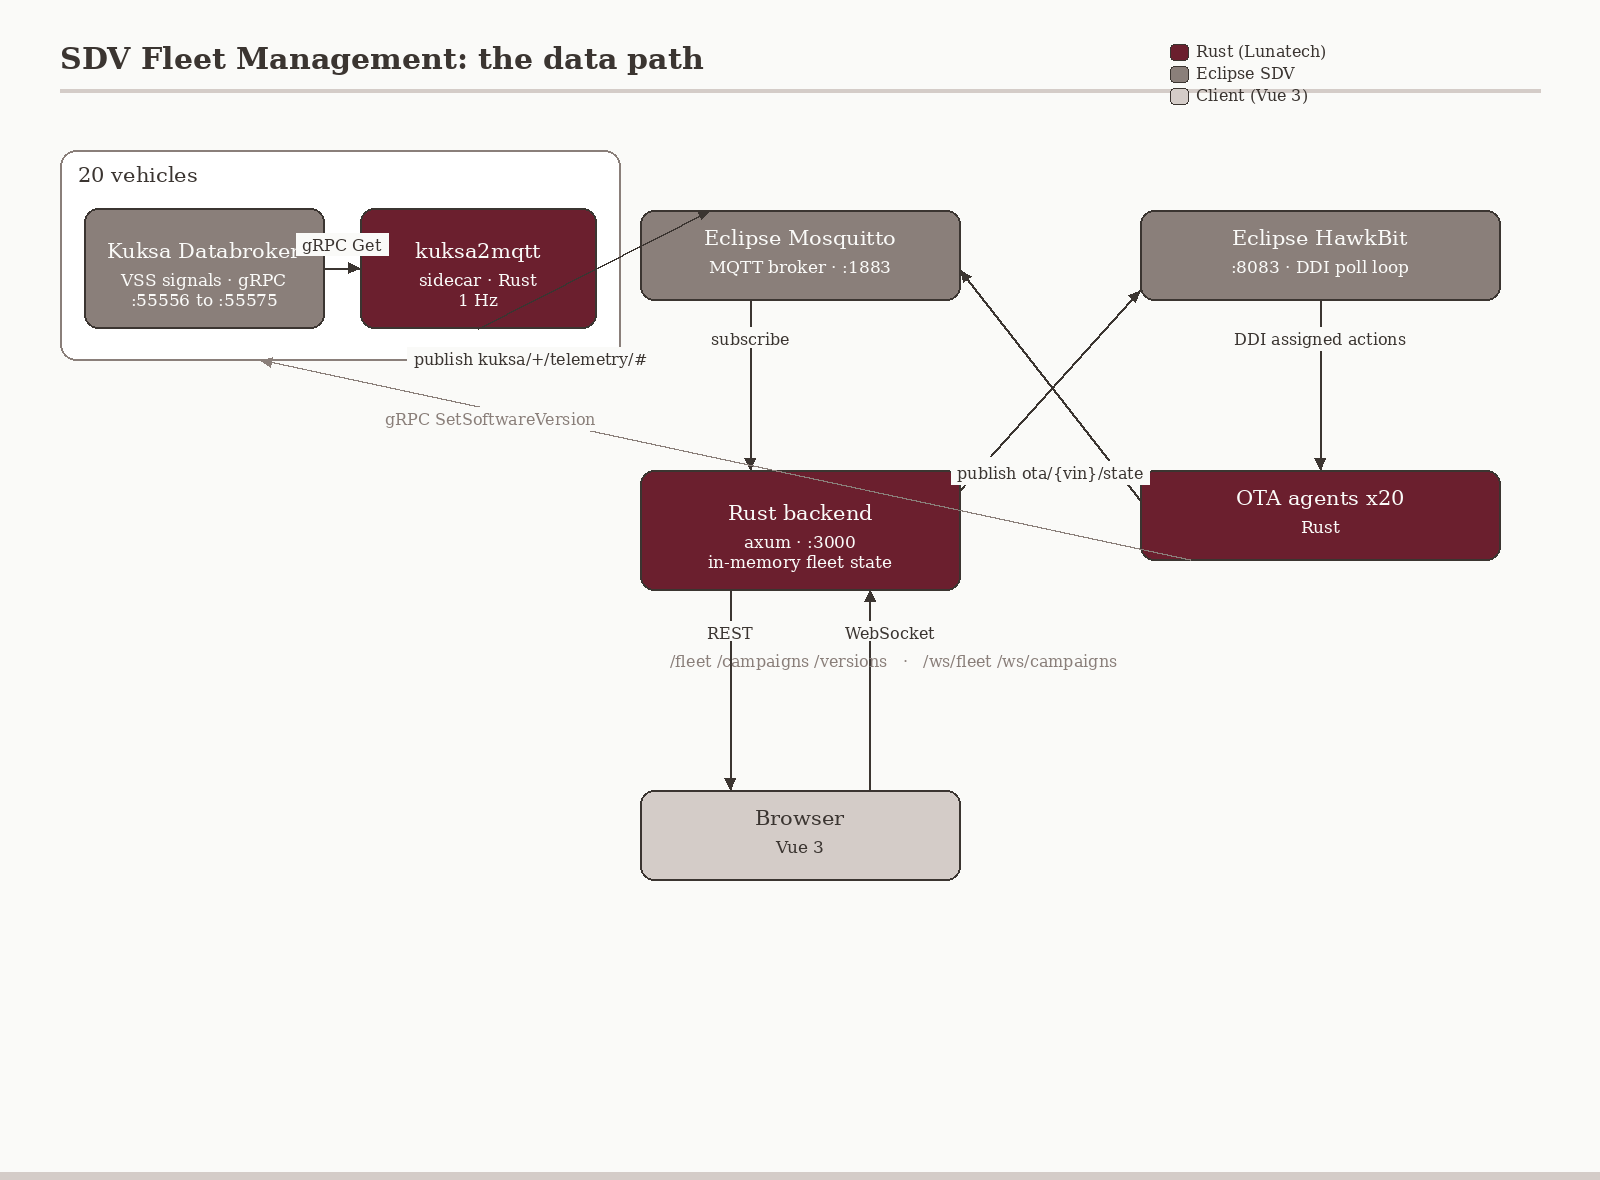
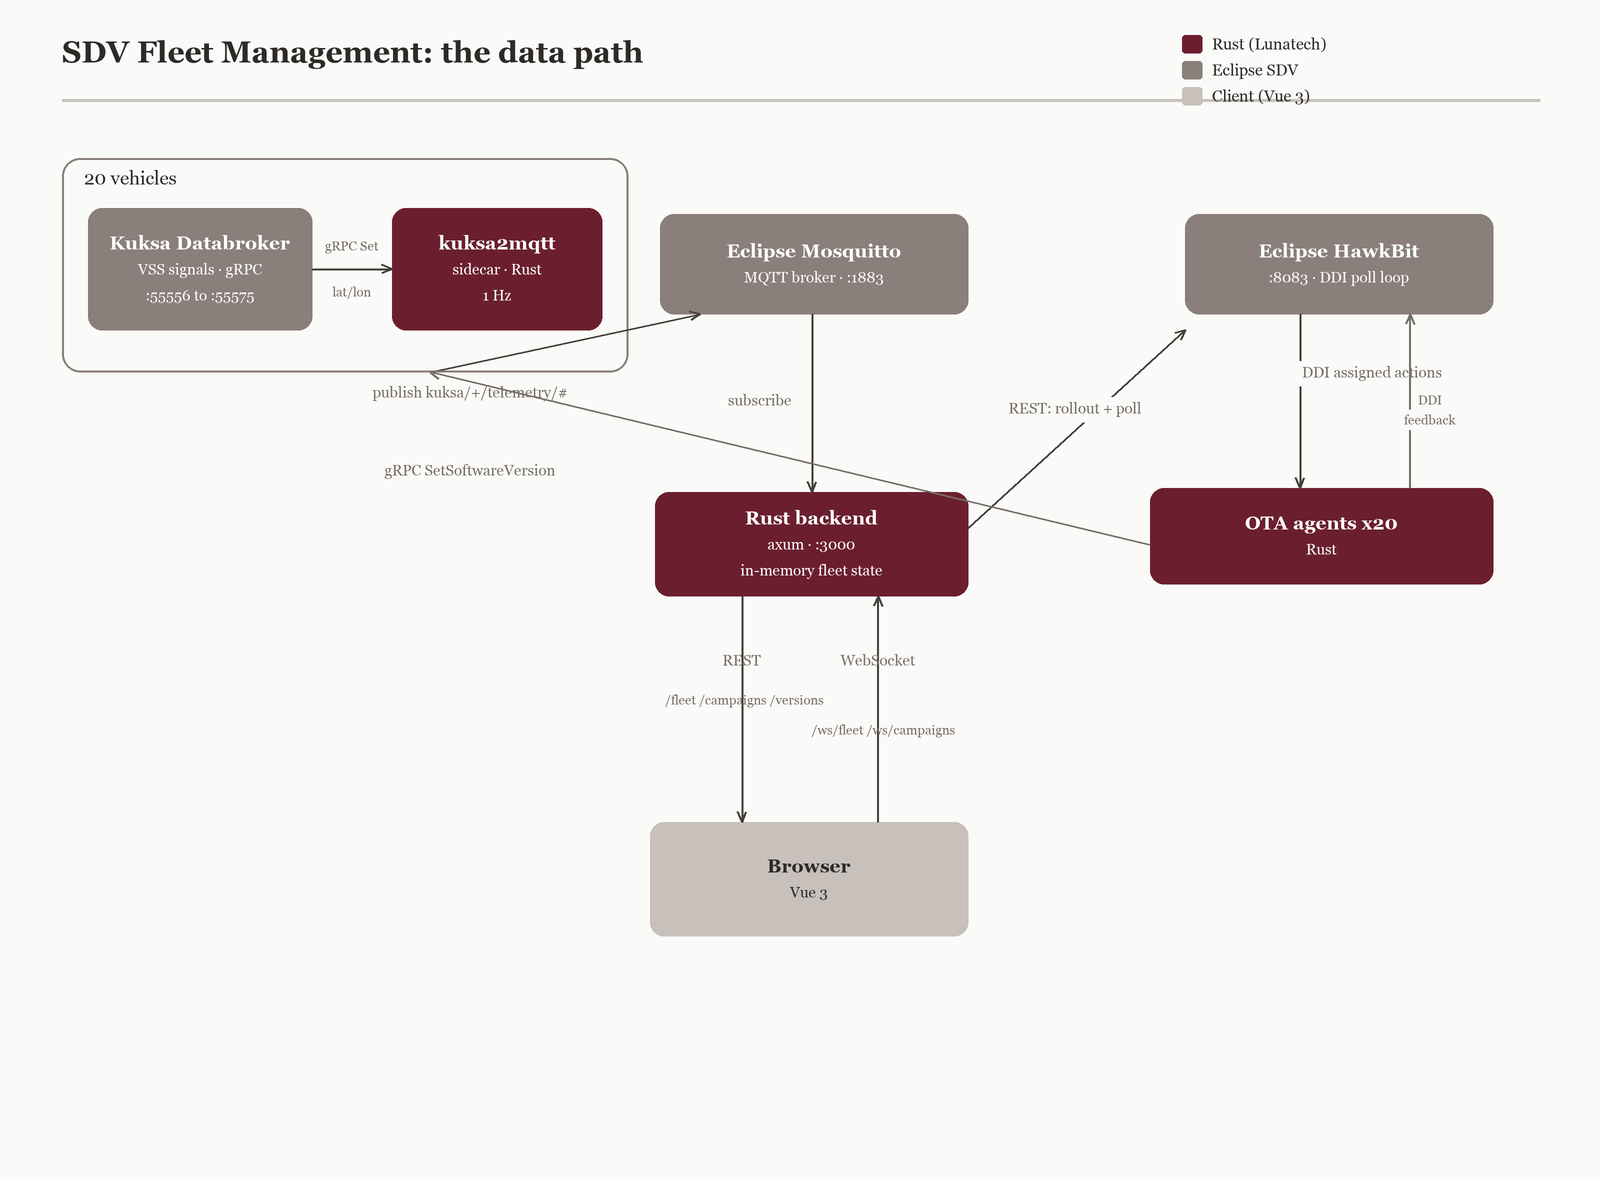
Correct architecture diagram to match the code
Regenerate architecture.png and add the Pillow generator. Two fixes:

- Databroker -> kuksa2mqtt arrow is "gRPC Set lat/lon", not "gRPC Get":
  the sidecar generates the GPS walk and writes it into Kuksa.
- Remove the non-existent "publish ota/{vin}/state" MQTT hop. OTA state
  now flows agent -> HawkBit (DDI feedback) and backend -> HawkBit
  (REST: rollout + poll), matching backend/src/mqtt.rs and hawkbit.rs.

diff --git a/media/2026-06-10-software-defined-vehicle-backend/architecture_diagram.py b/media/2026-06-10-software-defined-vehicle-backend/architecture_diagram.py
@@ -1,0 +1,141 @@
+#!/usr/bin/env python3
+"""Regenerate architecture.png for the SDV fleet-management post.
+
+Hand-laid Pillow drawing (no auto-layout) reproducing the original
+"SDV Fleet Management: the data path" diagram, corrected to match the
+code in lunatech-labs/sdv-fleet-management:
+
+  * the sidecar WRITES lat/lon into Kuksa over gRPC (Set), it does not Get
+  * OTA state flows over DDI to HawkBit, NOT over an ota/{vin}/state MQTT
+    topic; the backend polls HawkBit for progress
+
+Run:  python3 architecture_diagram.py
+"""
+import math
+from PIL import Image, ImageDraw, ImageFont
+
+S = 2                       # supersample factor, downscaled at the end
+W, H = 1600 * S, 1180 * S
+
+BG     = (250, 250, 248)
+MAROON = (107, 31, 46)      # Rust (Lunatech)
+GREY   = (138, 127, 122)    # Eclipse SDV
+CLIENT = (199, 192, 187)    # Client (Vue 3)
+DARK   = (45, 42, 40)
+LINE   = (70, 64, 60)
+EDGE   = (120, 110, 104)    # edge label grey
+RULE   = (200, 194, 188)
+
+F = "/System/Library/Fonts/Supplemental/Georgia.ttf"
+FB = "/System/Library/Fonts/Supplemental/Georgia Bold.ttf"
+def font(path, sz): return ImageFont.truetype(path, sz * S)
+title_f = font(FB, 30)
+box_t   = font(FB, 19)
+box_s   = font(F, 15)
+leg_f   = font(F, 16)
+edge_f  = font(F, 15)
+edge_s  = font(F, 13)
+grp_f   = font(F, 19)
+
+img = Image.new("RGB", (W, H), BG)
+d = ImageDraw.Draw(img)
+
+def sc(*v): return tuple(x * S for x in v)
+
+def ctext(cx, cy, text, fnt, fill, anchor="mm"):
+    d.text(sc(cx, cy), text, font=fnt, fill=fill, anchor=anchor)
+
+def box(x0, y0, x1, y1, fill, lines, outline=None, radius=14):
+    d.rounded_rectangle(sc(x0, y0, x1, y1), radius=radius * S,
+                        fill=fill, outline=outline or fill, width=2 * S)
+    cx = (x0 + x1) / 2
+    n = len(lines)
+    th = (n - 1) * 26
+    y = (y0 + y1) / 2 - th / 2
+    txt = (255, 255, 255) if fill in (MAROON, GREY) else DARK
+    for i, (s, big) in enumerate(lines):
+        ctext(cx, y + i * 26, s, box_t if big else box_s, txt)
+
+def arrow(p0, p1, color=LINE, width=2, head=11):
+    d.line([sc(*p0), sc(*p1)], fill=color, width=width * S)
+    ang = math.atan2(p1[1] - p0[1], p1[0] - p0[0])
+    for s in (+1, -1):
+        a = ang + math.pi - s * 0.42
+        d.line([sc(*p1), sc(p1[0] + head * math.cos(a), p1[1] + head * math.sin(a))],
+               fill=color, width=width * S)
+
+def elabel(cx, cy, text, fnt=edge_f, fill=EDGE, box_bg=False):
+    if box_bg:
+        l, t, r, b = d.textbbox(sc(cx, cy), text, font=fnt, anchor="mm")
+        pad = 5 * S
+        d.rectangle([l - pad, t - pad, r + pad, b + pad], fill=BG)
+    ctext(cx, cy, text, fnt, fill)
+
+# ── Title + rule ──────────────────────────────────────────────────────────
+ctext(62, 52, "SDV Fleet Management: the data path", title_f, DARK, anchor="lm")
+d.line(sc(62, 100, 1540, 100), fill=RULE, width=3 * S)
+
+# ── Legend ────────────────────────────────────────────────────────────────
+for i, (col, lab) in enumerate([(MAROON, "Rust (Lunatech)"),
+                                (GREY, "Eclipse SDV"),
+                                (CLIENT, "Client (Vue 3)")]):
+    y = 44 + i * 26
+    d.rounded_rectangle(sc(1182, y - 9, 1202, y + 9), radius=3 * S, fill=col)
+    ctext(1212, y, lab, leg_f, DARK, anchor="lm")
+
+# ── 20 vehicles group ───────────────────────────────────────────────────────
+d.rounded_rectangle(sc(62, 158, 628, 372), radius=18 * S, outline=GREY, width=2 * S)
+ctext(84, 178, "20 vehicles", grp_f, DARK, anchor="lm")
+box(88, 208, 312, 330, GREY,
+    [("Kuksa Databroker", 1), ("VSS signals · gRPC", 0), (":55556 to :55575", 0)])
+box(392, 208, 602, 330, MAROON,
+    [("kuksa2mqtt", 1), ("sidecar · Rust", 0), ("1 Hz", 0)])
+arrow((312, 269), (392, 269))
+elabel(352, 246, "gRPC Set", edge_s, box_bg=True)
+elabel(352, 292, "lat/lon", edge_s, box_bg=True)
+
+# ── Top row brokers ─────────────────────────────────────────────────────────
+box(660, 214, 968, 314, GREY, [("Eclipse Mosquitto", 1), ("MQTT broker · :1883", 0)])
+box(1185, 214, 1493, 314, GREY, [("Eclipse HawkBit", 1), (":8083 · DDI poll loop", 0)])
+
+# ── Middle row ──────────────────────────────────────────────────────────────
+box(655, 492, 968, 596, MAROON,
+    [("Rust backend", 1), ("axum · :3000", 0), ("in-memory fleet state", 0)])
+box(1150, 488, 1493, 584, MAROON, [("OTA agents x20", 1), ("Rust", 0)])
+
+# ── Browser ─────────────────────────────────────────────────────────────────
+box(650, 822, 968, 936, CLIENT, [("Browser", 1), ("Vue 3", 0)])
+
+# ── Edges: telemetry track ──────────────────────────────────────────────────
+arrow((430, 372), (700, 314))
+elabel(470, 392, "publish kuksa/+/telemetry/#", edge_f, box_bg=True)
+arrow((812, 314), (812, 492))
+elabel(760, 400, "subscribe")
+
+# ── Edges: OTA track (corrected) ────────────────────────────────────────────
+# backend asks HawkBit to start the rollout and polls it for progress (REST)
+arrow((968, 528), (1185, 330))
+elabel(1075, 408, "REST: rollout + poll", box_bg=True)
+# HawkBit hands assigned actions down to the agents (DDI)
+arrow((1300, 314), (1300, 488))
+elabel(1372, 372, "DDI assigned actions", box_bg=True)
+# agents report progress back up to HawkBit (DDI feedback) — no MQTT hop
+arrow((1410, 488), (1410, 314), color=EDGE)
+elabel(1430, 400, "DDI", edge_s, box_bg=True)
+elabel(1430, 420, "feedback", edge_s, box_bg=True)
+# agents set the new SoftwareVersion into each car's databroker (gRPC)
+arrow((1150, 545), (430, 372), color=EDGE)
+elabel(470, 470, "gRPC SetSoftwareVersion", box_bg=True)
+
+# ── Edges: client track ─────────────────────────────────────────────────────
+arrow((742, 596), (742, 822))
+elabel(742, 660, "REST")
+ctext(665, 700, "/fleet /campaigns /versions", edge_s, EDGE, anchor="lm")
+arrow((878, 822), (878, 596))
+elabel(878, 660, "WebSocket")
+ctext(955, 730, "/ws/fleet /ws/campaigns", edge_s, EDGE, anchor="rm")
+
+# ── Output ──────────────────────────────────────────────────────────────────
+img = img.resize((1600, 1180), Image.LANCZOS)
+img.save("architecture.png")
+print("wrote architecture.png")